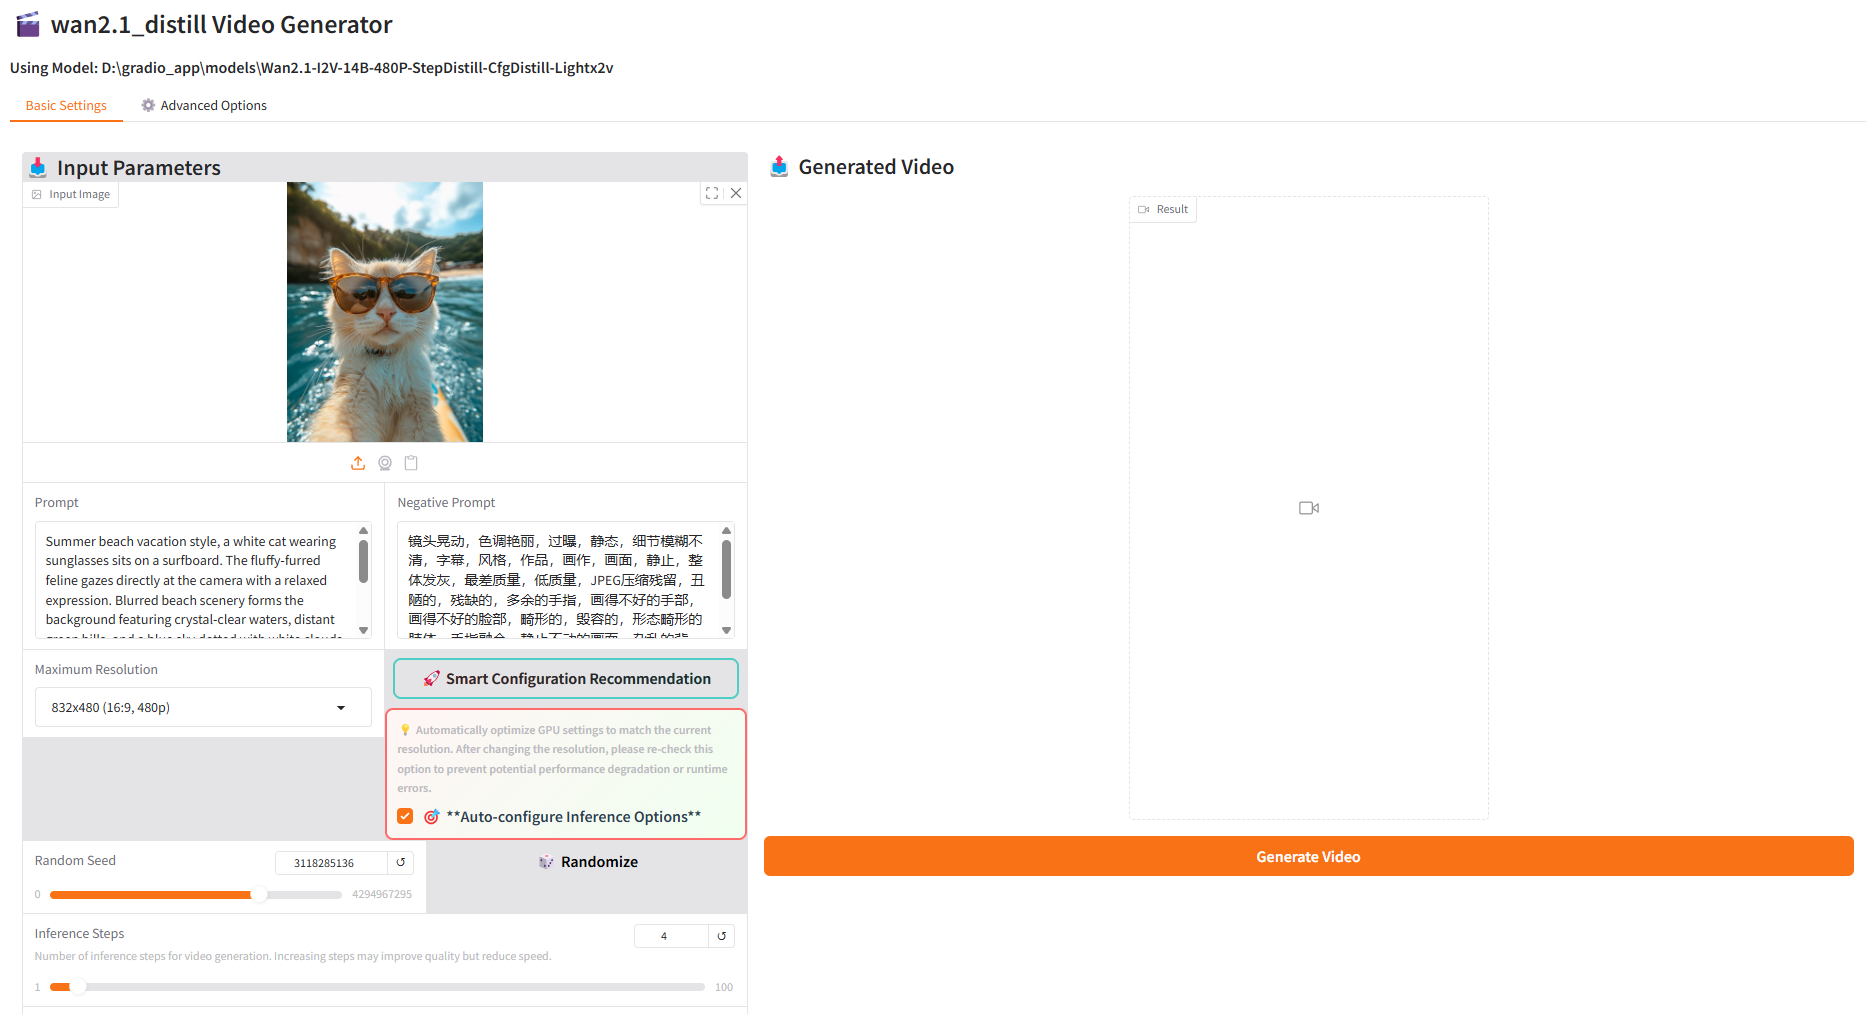
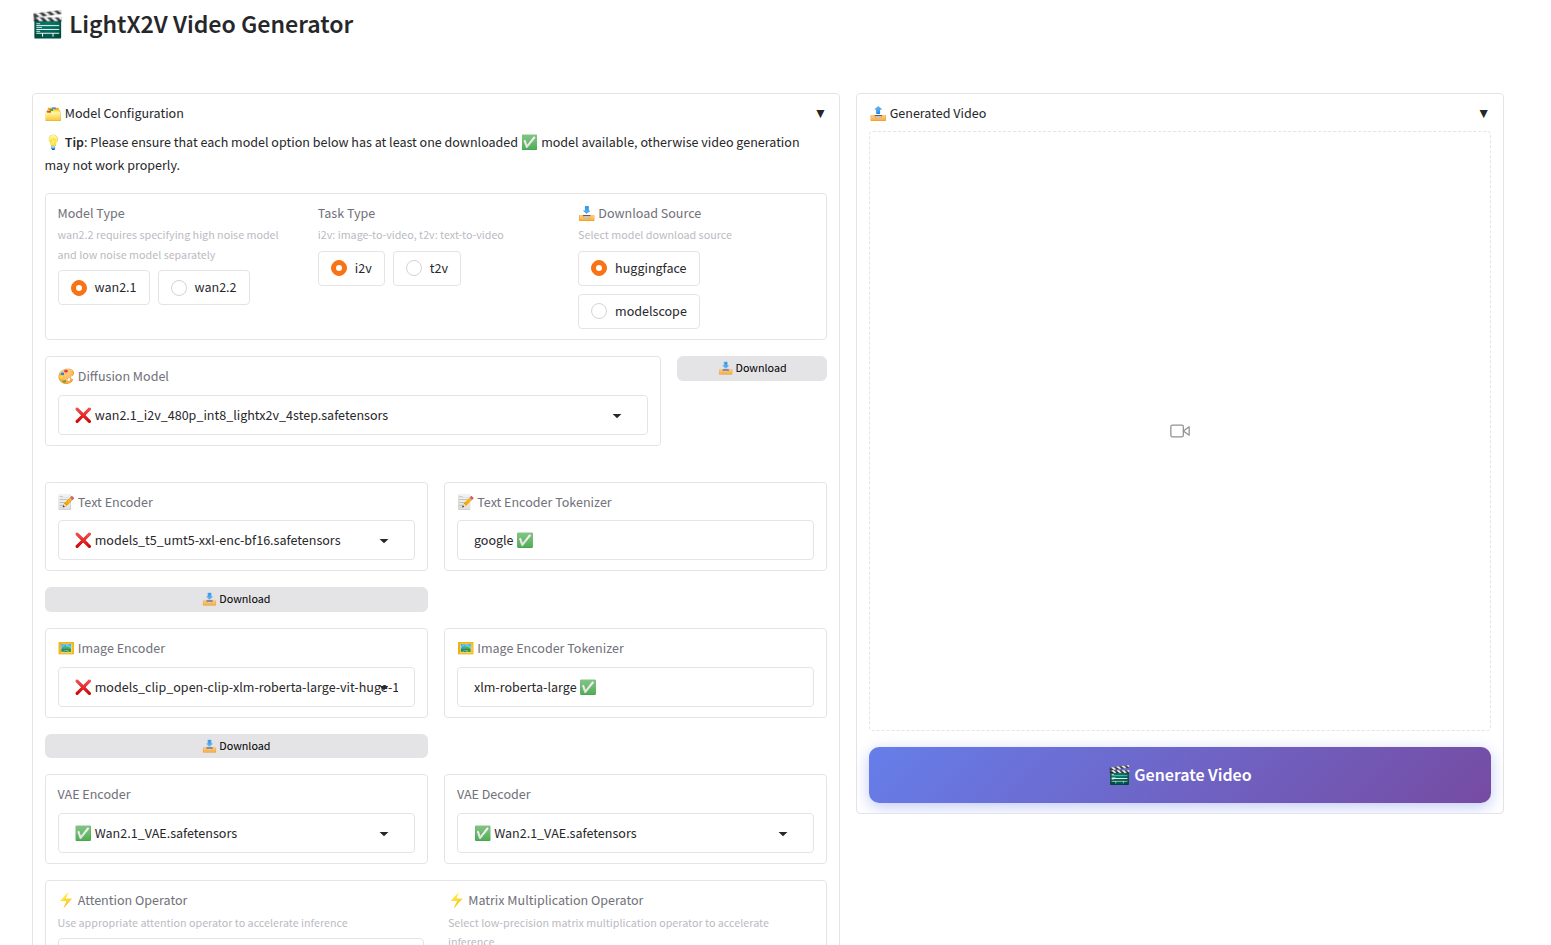
update docs (#628)

diff --git a/docs/EN/source/deploy_guides/deploy_local_windows.md b/docs/EN/source/deploy_guides/deploy_local_windows.md
@@ -29,7 +29,7 @@ Refer to [Quick Start Guide](../getting_started/quickstart.md) to install enviro
 #### One-Click Gradio Startup (Recommended)
 
 **📦 Download Software Package**
-- [Quark Cloud](https://pan.quark.cn/s/8af1162d7a15)
+- [Quark Cloud](https://pan.quark.cn/s/f44023dcf8c8)
 
 **📁 Directory Structure**
 After extraction, ensure the directory structure is as follows:
@@ -44,9 +44,11 @@ After extraction, ensure the directory structure is as follows:
 └── models/                     # Model storage directory
 ```
 
+**⚠ Note for RTX 50 Series GPU Users**: We provide a dedicated runtime environment. Please download from [Quark Cloud](https://pan.quark.cn/s/4028867091b8), extract and replace the `env/` directory in the software package.
+
 **📥 Model Download**:
 
-Refer to [Model Structure Documentation](../getting_started/model_structure.md) or [Gradio Deployment Guide](./deploy_gradio.md) to download complete models (including quantized and non-quantized versions) or download only quantized/non-quantized versions.
+You can directly download from the Gradio frontend, with two download sources provided: HuggingFace and ModelScope. You can choose according to your situation, or refer to the [Model Structure Documentation](../getting_started/model_structure.md) to manually download.
 
 
 **📋 Configuration Parameters**

diff --git a/docs/ZH_CN/source/deploy_guides/deploy_local_windows.md b/docs/ZH_CN/source/deploy_guides/deploy_local_windows.md
@@ -28,7 +28,8 @@
 #### 一键启动Gradio（推荐）
 
 **📦 下载软件包**
-- [夸克网盘](https://pan.quark.cn/s/8af1162d7a15)
+- [夸克网盘](https://pan.quark.cn/s/f44023dcf8c8)
+
 
 **📁 目录结构**
 解压后，确保目录结构如下：
@@ -43,9 +44,11 @@
 └── models/                     # 模型存放目录
 ```
 
+**RTX 50系显卡用户注意**：我们提供了专用的运行环境。请从[夸克网盘](https://pan.quark.cn/s/4028867091b8)下载，解压后替换软件包中的 `env/` 目录即可。
+
 **📥 下载模型**:
 
-可参考[模型结构文档](../getting_started/model_structure.md)或者[gradio部署文档](./deploy_gradio.md)下载完整模型（包含量化和非量化版本）或仅下载量化/非量化版本。
+可直接从gradio前端下载，提供了两个下载源，huggingface和modelscope，可根据自己情况选择，或参考[模型结构文档](../getting_started/model_structure.md)手动下载
 
 
 **📋 配置参数**

diff --git a/docs/EN/source/deploy_guides/deploy_gradio.md b/docs/EN/source/deploy_guides/deploy_gradio.md
@@ -42,7 +42,7 @@ Install according to the project homepage tutorials for each operator as needed.
 
 ### 📥 Model Download
 
-Refer to the [Model Structure Documentation](../getting_started/model_structure.md) to download complete models (including quantized and non-quantized versions) or download only quantized/non-quantized versions.
+Models can be downloaded with one click through the frontend interface, with two download sources provided: HuggingFace and ModelScope. You can choose according to your situation. You can also refer to the [Model Structure Documentation](../getting_started/model_structure.md) to download complete models (including quantized and non-quantized versions) or download only quantized/non-quantized versions.
 
 #### wan2.1 Model Directory Structure
 

diff --git a/docs/ZH_CN/source/deploy_guides/deploy_gradio.md b/docs/ZH_CN/source/deploy_guides/deploy_gradio.md
@@ -42,7 +42,8 @@ LightX2V/app/
 
 ### 📥 模型下载
 
-可参考[模型结构文档](../getting_started/model_structure.md)下载完整模型（包含量化和非量化版本）或仅下载量化/非量化版本。
+可通过前端界面一键下载模型，提供了两个下载源，huggingface和modelscope，可根据自己情况选择
+也可参考[模型结构文档](../getting_started/model_structure.md)下载完整模型（包含量化和非量化版本）或仅下载量化/非量化版本。
 
 #### wan2.1 模型目录结构
 
